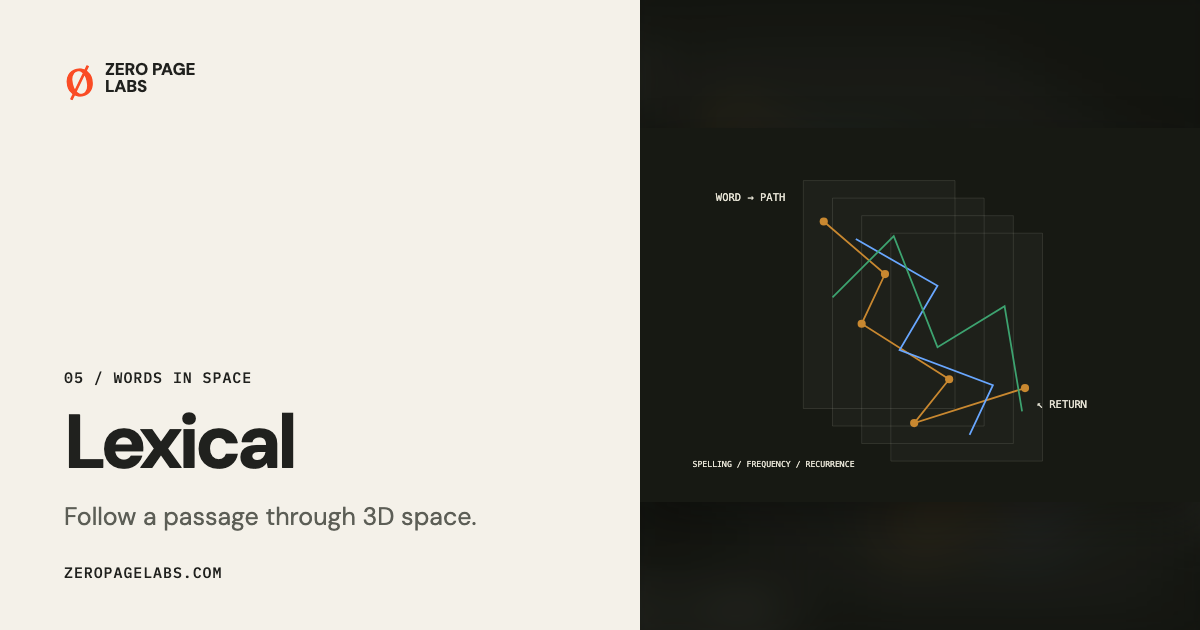
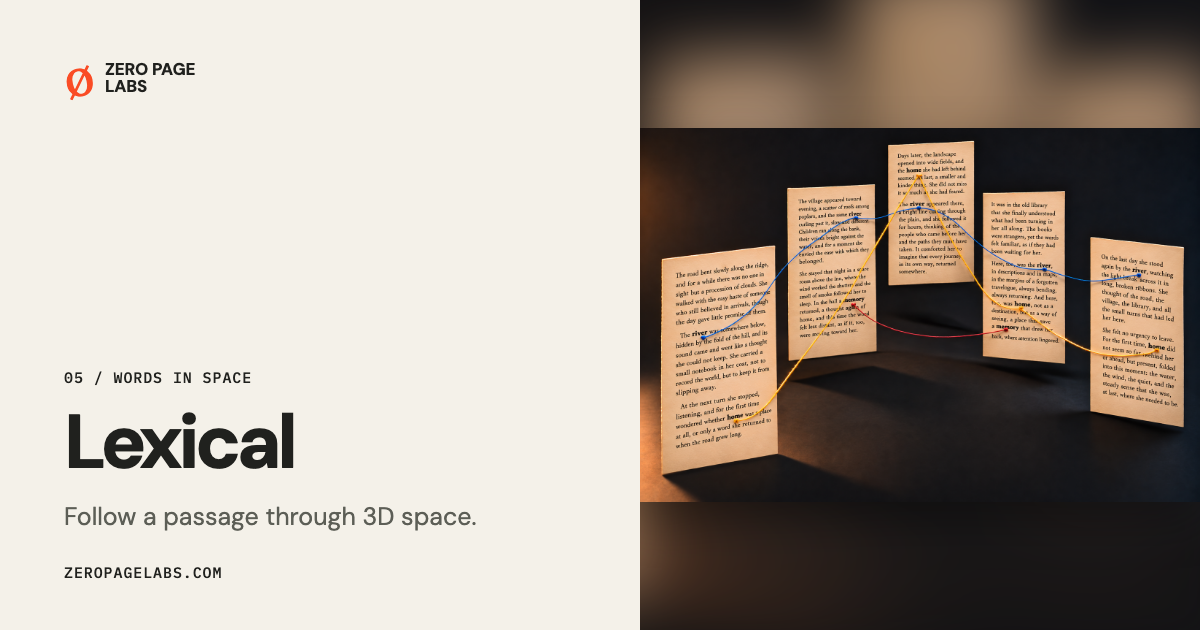
Publish approved Lexical word-thread thumbnail

Changed region(s): [[0.5242, 0.0, 1.0, 0.9952]]

diff --git a/knowledge/domain/content.md b/knowledge/domain/content.md
@@ -30,3 +30,6 @@ Replaced the schematic card with `assets/experiment-bellona-realistic.png` (1536
 
 ## 2026-11-25 — Biblical Travels cover illustration
 `assets/experiment-biblical-travels-realistic.png` replaces the flat map with a realistic Galilee-inspired journey scene: anonymous travelers, olive trees, a stone path, and a lakeside village. Artistic illustration, not a verified reconstruction of a particular site or biblical event. Generated with built-in imagegen; exact prompt in `data/biblical-cover-generation.json`. Original SVG retained. Shared catalog updates homepage and Experiments; Biblical Travels and Experiments share images regenerated. Deep verification passed 15 pages; share-card freshness passed; local desktop and 375px checks passed.
+
+## 2026-11-25 — Approved Lexical cover
+Published artwork source: `assets/experiment-lexical-realistic.png`, copied unchanged from generated image `exec-6ccac657-8b48-4595-9f26-44afcca5fcb8.png`. Daniel approved: "good. update zero page labs lexical thumbnail with this". Five distinct pages; blue river, yellow home, red memory. Original SVG retained. Catalog replacement updates Experiments card; Lexical share image regenerated. Deep build verification passed 15 pages; share freshness passed.

diff --git a/knowledge/SESSION.md b/knowledge/SESSION.md
@@ -575,3 +575,8 @@ Status: Published d57fb08. Public fingerprint matched. Chrome visibly rendered t
 Agent: OpenAI Codex
 Verdict: pending — requested Biblical Travels realism to match the other updated cards
 Status: Published 845cf79. Public fingerprint matched. Live Chrome visibly rendered the new journey illustration on the homepage beside Bellona. Local desktop and 375px card checks passed; deep verification passed 15 pages; share-card freshness passed. Original SVG retained. Exact prompt: data/biblical-cover-generation.json.
+
+## 2026-11-25 — Publish approved Lexical thumbnail
+Agent: OpenAI Codex
+Verdict: kept — "good. update zero page labs lexical thumbnail with this"
+Status: Approved exact generated image copied into assets. Deep verification and share freshness passed. Local browser preview was interrupted by detached debugger; public verification pending.

diff --git a/task.md b/task.md
@@ -663,3 +663,10 @@ Surface: static build, shared analytics script, privacy notice. Publish through 
 - [x] Share-card freshness verification passes.
 - [x] Deep site verification passes.
 - [x] Public site serves the replacement image.
+
+## 2026-11-25 — Approved Lexical thumbnail
+- [ ] Lexical catalog cover references the approved image.
+- [ ] Experiments index loads the approved image.
+- [ ] Share-card freshness verification passes.
+- [ ] Deep site verification passes.
+- [ ] Public site serves the approved image.
